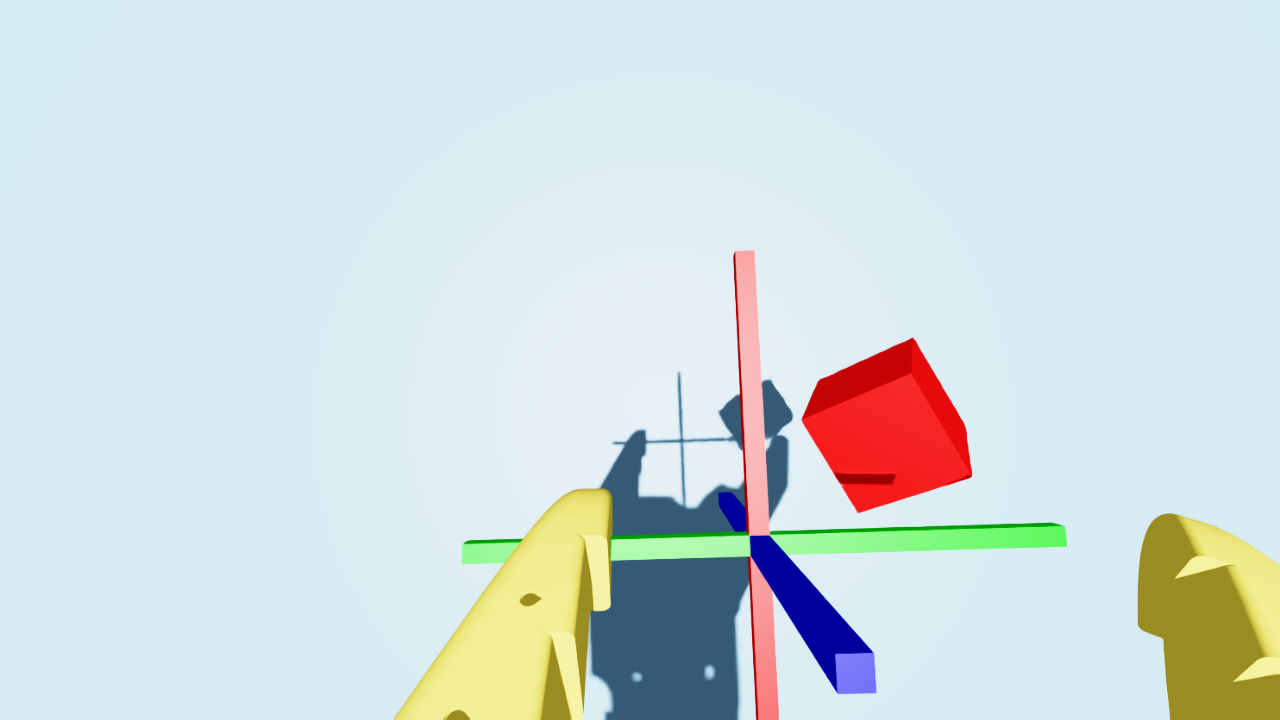
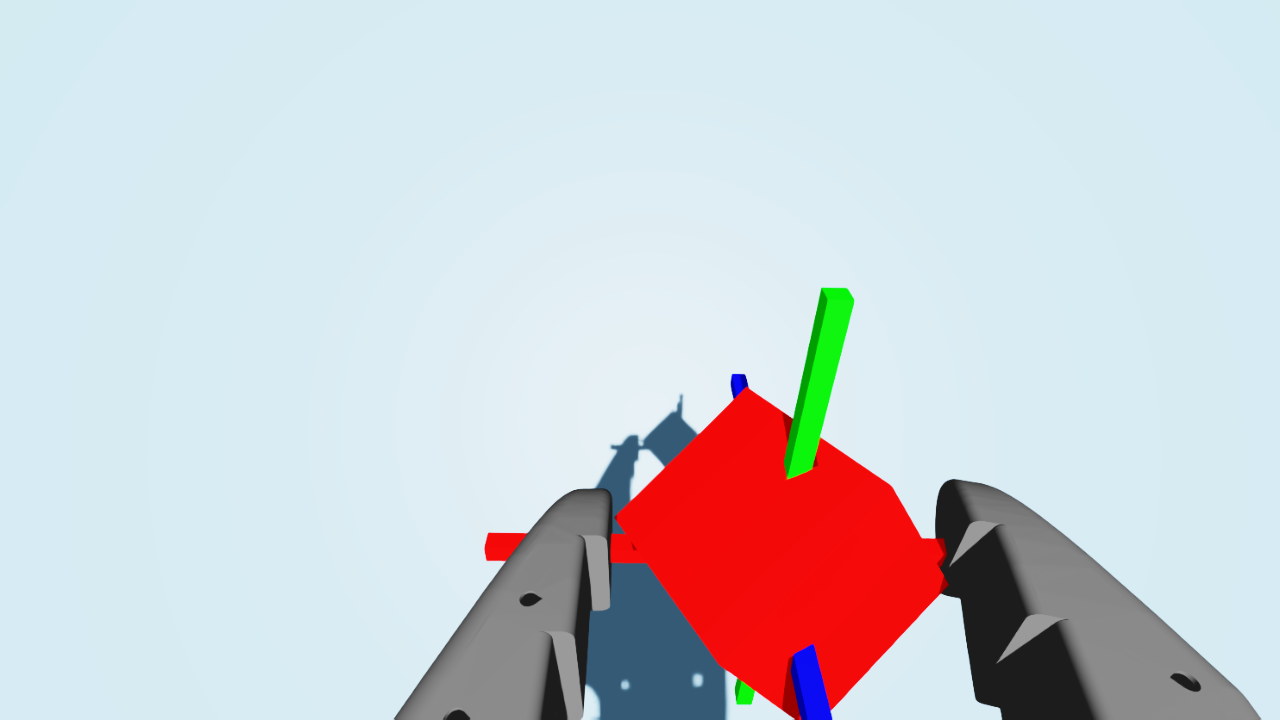
close

Changed region(s): [[0.3125, 0.3361, 1.0, 1.0]]

diff --git a/isaac_so_arm101-main/src/isaac_so_arm101/tasks/pick_place/pick_place_env_cfg.py b/isaac_so_arm101-main/src/isaac_so_arm101/tasks/pick_place/pick_place_env_cfg.py
@@ -171,14 +171,14 @@ class EventCfg:
             "placement_point": (0.048, 0.0),
             # Bowl: annular ring [0.20, 0.40] m from placement point, x ≥ 0.148, |y| ≤ 0.20.
             "bowl_dist_range": (0.20, 0.40),
-            "bowl_x_min": 0.0,
-            "bowl_y_max": 0.40,
+            "bowl_x_min": 0.148,
+            "bowl_y_max": 0.20,
             # Bowl radius: keep-out circle + occlusion-cone half-width (wider than physical 0.0775 to account for 3D camera perspective).
             "bowl_radius": 0.1,
             # Cube: annular ring [0.15, 0.30] m from placement point, x ≥ 0.148, |y| ≤ 0.20.
             "cube_dist_range": (0.15, 0.30),
-            "cube_x_min": -0.1,
-            "cube_y_max": 0.50,
+            "cube_x_min": 0.148,
+            "cube_y_max": 0.20,
             # Two-phase sampling: 100 random tries, then safety positions fallback.
             "safe_fallback_after": 100,
             "max_placement_tries": 200,
@@ -242,14 +242,14 @@ class EventCfg:
 
 @configclass
 class RewardsCfg:
-    reaching_object_coarse = RewTerm(
-        func=mdp.object_ee_distance,
-        params={"std": 0.15},
-        weight=0.1,
-    )
+    #reaching_object_coarse = RewTerm(
+    #    func=mdp.object_ee_distance,
+    #    params={"std": 0.15},
+    #    weight=0.1,
+    #)
     reaching_object_fine = RewTerm(
         func=mdp.object_ee_distance,
-        params={"std": 0.03},  # only rewards when within ~3cm — cube is 2cm
+        params={"std": 0.07},  # only rewards when within ~3cm — cube is 2cm
         weight=1.0,
     )
 
@@ -262,15 +262,15 @@ class RewardsCfg:
     #    },
     #    weight=5.0,
     #)
-    gripper_close_near_cube = RewTerm(
-        func=mdp.gripper_close_when_near,
-        params={
-            "proximity_std": 0.02,
-            "gripper_target": 0.2,
-            "asset_cfg": SceneEntityCfg("robot", joint_names=["gripper"]),
-        },
-        weight=5.0,
-    )
+    #gripper_close_near_cube = RewTerm(
+    #    func=mdp.gripper_close_when_near,
+    #    params={
+    #        "proximity_std": 0.02,
+    #        "gripper_target": 0.0,
+    #        "asset_cfg": SceneEntityCfg("robot", joint_names=["gripper"]),
+    #    },
+    #    weight=5.0,
+    #)
 
     #gripper_force_coarse = RewTerm(
     #    func=mdp.gripper_force_reward,
@@ -279,20 +279,20 @@ class RewardsCfg:
     #        "proximity_std": 0.05, "debug_print_interval": 0,
     #        "cube_sensor_cfg": SceneEntityCfg("contact_forces_cube"),
     #    },
-    #    weight=10.0,
+    #    weight=5.0,
     #)
-    gripper_force_fine = RewTerm(
-        func=mdp.gripper_force_reward,
-        params={
-            "target_force": 0.2,       # was 2.0 — realistic for 5g cube
-            "force_tolerance": 0.2,    # was 2.0
-            "force_max": 1.0,          # was 8.0
-            "proximity_std": 0.05,
-            "debug_print_interval": 0,
-            "cube_sensor_cfg": SceneEntityCfg("contact_forces_cube"),
-        },
-        weight=10.0,
-    )
+    #gripper_force_fine = RewTerm(
+    #    func=mdp.gripper_force_reward,
+    #    params={
+    #        "target_force": 0.2,       # was 2.0 — realistic for 5g cube
+    #        "force_tolerance": 0.2,    # was 2.0
+    #        "force_max": 1.0,          # was 8.0
+    #        "proximity_std": 0.05,
+    #        "debug_print_interval": 0,
+    #        "cube_sensor_cfg": SceneEntityCfg("contact_forces_cube"),
+    #    },
+    #    weight=10.0,
+#)
 
     object_grasped = RewTerm(
         func=mdp.object_grasped_contact_continuous,
@@ -301,68 +301,68 @@ class RewardsCfg:
             "force_balance_ratio": 3.0,
             "cube_sensor_cfg": SceneEntityCfg("contact_forces_cube"),
         },
-        weight=5.0,
+        weight=10.0,
     )
-    gripper_aperture = RewTerm(
-        func=mdp.gripper_aperture_reward,
-        params={
-            "std": 0.05,
-            "close_joint_pos": 0.0,
-            "target_open_pos": 0.3,
-            "object_cfg": SceneEntityCfg("object"),
-            "ee_frame_cfg": SceneEntityCfg("ee_frame"),
-            "robot_cfg": SceneEntityCfg("robot", joint_names=["gripper"]),
-        },
-        weight=0.01,
-    )
+    #gripper_aperture = RewTerm(
+    #    func=mdp.gripper_aperture_reward,
+    #    params={
+    #        "std": 0.1,
+    #        "close_joint_pos": 0.0,
+    #        "target_open_pos": 0.5,
+    #        "object_cfg": SceneEntityCfg("object"),
+    #        "ee_frame_cfg": SceneEntityCfg("ee_frame"),
+    #        "robot_cfg": SceneEntityCfg("robot", joint_names=["gripper"]),
+    #    },
+    #    weight=0.01,
+    #)
 
     lifting_object_coarse = RewTerm(
         func=mdp.lifting_object_grasped,
         params={
             "start_height": 0.01,
-            "saturation_height": 0.03,
+            "saturation_height": 0.04,
             "force_saturation": 0.5,       # was 5.0
             "force_balance_ratio": 3.0,
             "cube_sensor_cfg": SceneEntityCfg("contact_forces_cube"),
         },
-        weight=5.0,
+        weight=20.0,
     )
-    lifting_object_fine = RewTerm(
+    lifting_object = RewTerm(
         func=mdp.lifting_object_grasped,
         params={
-            "start_height": 0.025,
-            "saturation_height": 0.06,
+            "start_height": 0.03,
+            "saturation_height": 0.07,
             "force_saturation": 0.5,       # was 5.0
             "force_balance_ratio": 3.0,
             "cube_sensor_cfg": SceneEntityCfg("contact_forces_cube"),
         },
-        weight=5.0,
+        weight=10.0,
     )
     object_goal_tracking = RewTerm(
         func=mdp.object_bowl_distance,
         params={"std": 0.3, "minimal_height": 0.06, "height_offset": 0.1, "debug_vis": True},
-        weight=3.0,
+        weight=10.0,
     )
 
     object_goal_tracking_fine_grained = RewTerm(
         func=mdp.object_bowl_distance,
-        params={"std": 0.05, "minimal_height": 0.06, "height_offset": 0.1},
-        weight=2.0,
+        params={"std": 0.05, "minimal_height": 0.07, "height_offset": 0.1},
+        weight=5.0,
     )
     dropping_success = RewTerm(
         func=mdp.object_released_in_zone,
         params={"threshold": 0.05, "target_cfg": SceneEntityCfg("bowl_bottom")},
-        weight=20.0,
+        weight=100.0,
     )
-    cube_moved_before_grasp = RewTerm(
-        func=mdp.cube_moved_before_grasp_penalty,
-        params={
-            "height_threshold": 0.01,
-            "force_threshold": 0.05,
-            "cube_sensor_cfg": SceneEntityCfg("contact_forces_cube"),
-        },
-        weight=-1.0,
-    )
+    #cube_moved_before_grasp = RewTerm(
+    #    func=mdp.cube_moved_before_grasp_penalty,
+    #    params={
+    #        "height_threshold": 0.01,
+    #        "force_threshold": 0.05,
+    #        "cube_sensor_cfg": SceneEntityCfg("contact_forces_cube"),
+    #    },
+    #    weight=-1.0,
+    #)
     alive_penalty = RewTerm(func=mdp.is_alive, weight=-0.001)
     #robot_table_contact = RewTerm(
     #    func=mdp.robot_table_contact_penalty,
@@ -393,10 +393,10 @@ class RewardsCfg:
 @configclass
 class TerminationsCfg:
     time_out = DoneTerm(func=mdp.time_out, time_out=True)
-    object_dropping = DoneTerm(
-        func=mdp.root_height_below_minimum,
-        params={"minimum_height": -0.05, "asset_cfg": SceneEntityCfg("object")}
-    )
+    #object_dropping = DoneTerm(
+    #    func=mdp.root_height_below_minimum,
+    #    params={"minimum_height": -0.05, "asset_cfg": SceneEntityCfg("object")}
+    #)
     object_out_of_bounds = DoneTerm(
         func=mdp.root_height_below_minimum,
         params={"minimum_height": -0.5, "asset_cfg": SceneEntityCfg("object")}

diff --git a/isaac_so_arm101-main/src/isaac_so_arm101/tasks/pick_place/check_ee.py b/isaac_so_arm101-main/src/isaac_so_arm101/tasks/pick_place/check_ee.py
@@ -15,6 +15,12 @@ parser.add_argument(
     default=False,
     help="If set, cube tracks the EE. Otherwise spawns randomly on the floor with physics.",
 )
+parser.add_argument(
+    "--cube-rot",
+    type=float,
+    default=None,
+    help="Fixed Z rotation for the cube in degrees. If not set, randomized in floor mode.",
+)
 args_cli = parser.parse_args()
 app_launcher = AppLauncher({"headless": args_cli.headless, "enable_cameras": True})
 simulation_app = app_launcher.app
@@ -65,7 +71,7 @@ class DebugSceneCfg(InteractiveSceneCfg):
                     "elbow_flex":    -0.3,
                     "wrist_flex":    1.57,
                     "wrist_roll":    -1.57,
-                    "gripper":       0.5,
+                    "gripper":       0.2,
                 },
             )
         )
@@ -118,7 +124,7 @@ class DebugSceneCfg(InteractiveSceneCfg):
                 FrameTransformerCfg.FrameCfg(
                     prim_path="{ENV_REGEX_NS}/Robot/gripper_frame_link",
                     name="end_effector",
-                    offset=OffsetCfg(pos=[-0.01, 0.0, 0.0]),
+                    offset=OffsetCfg(pos=[-0.018, 0.0, 0.0]),
                 ),
             ]
         )
@@ -159,11 +165,13 @@ def z_rot_quat(angle_rad: float, device="cuda:0"):
     ], device=device)
 
 def set_object_kinematic(scene, kinematic: bool):
+    from pxr import UsdPhysics, PhysxSchema
     stage = omni.usd.get_context().get_stage()
     prim = stage.GetPrimAtPath("/World/envs/env_0/Object")
     body = UsdPhysics.RigidBodyAPI(prim)
     body.GetKinematicEnabledAttr().Set(kinematic)
-    body.GetDisableGravityAttr().Set(kinematic)
+    physx_body = PhysxSchema.PhysxRigidBodyAPI(prim)
+    physx_body.GetDisableGravityAttr().Set(kinematic)
 
 def run_check(ee_alignment_mode: bool, cube_rot_deg: float | None):
     try:

diff --git a/isaac_so_arm101-main/src/isaac_so_arm101/tasks/pick_place/joint_pos_env_cfg.py b/isaac_so_arm101-main/src/isaac_so_arm101/tasks/pick_place/joint_pos_env_cfg.py
@@ -50,7 +50,7 @@ class SoArm101PickPlaceCubeEnvCfg(PickPlaceEnvCfg):
                     "elbow_flex":    -0.3,
                     "wrist_flex":    1.57,
                     "wrist_roll":    -1.57,
-                    "gripper":       0.3,
+                    "gripper":       0.5,
                 },
                 joint_vel={".*": 0.0},
             ),
@@ -110,8 +110,8 @@ class SoArm101PickPlaceCubeEnvCfg(PickPlaceEnvCfg):
                 rigid_props=RigidBodyPropertiesCfg(
                     solver_position_iteration_count=16,
                     solver_velocity_iteration_count=4,
-                    max_angular_velocity=100.0,
-                    max_linear_velocity=10.0,
+                    max_angular_velocity=1000.0,
+                    max_linear_velocity=1000.0,
                     max_depenetration_velocity=1.0,
                     disable_gravity=False,
                 ),
@@ -153,7 +153,7 @@ class SoArm101PickPlaceCubeEnvCfg(PickPlaceEnvCfg):
                 FrameTransformerCfg.FrameCfg(
                     prim_path="{ENV_REGEX_NS}/Robot/gripper_frame_link",
                     name="end_effector",
-                    offset=OffsetCfg(pos=[-0.015, 0.0, 0.0]),
+                    offset=OffsetCfg(pos=[-0.017, 0.0, 0.0]),
                 ),
             ]
         )

diff --git a/isaac_so_arm101-main/src/isaac_so_arm101/tasks/pick_place/mdp/events.py b/isaac_so_arm101-main/src/isaac_so_arm101/tasks/pick_place/mdp/events.py
@@ -261,6 +261,10 @@ def reset_bowl_and_cube(
     obj_state[:, 7:] = 0.0
     obj.write_root_pose_to_sim(obj_state[:, :7], env_ids=env_ids)
     obj.write_root_velocity_to_sim(obj_state[:, 7:], env_ids=env_ids)
+    if not hasattr(env, "_initial_cube_pos_w"):
+        env._initial_cube_pos_w = torch.zeros(env.num_envs, 3, device=env.device)
+    env._initial_cube_pos_w[env_ids] = obj_state[:, :3].clone()
+
 
     _set_object_color(env, env_ids, object_cfg)
 

diff --git a/isaac_so_arm101-main/src/isaac_so_arm101/tasks/pick_place/agents/rsl_rl_ppo_state_cfg.py b/isaac_so_arm101-main/src/isaac_so_arm101/tasks/pick_place/agents/rsl_rl_ppo_state_cfg.py
@@ -23,8 +23,8 @@ class PickPlaceStatePPORunnerCfg(RslRlOnPolicyRunnerCfg):
 
     policy = RslRlPpoActorCriticCfg(
         init_noise_std     = 1.0,
-        actor_hidden_dims  = [512, 256, 128],
-        critic_hidden_dims = [512, 256, 128],
+        actor_hidden_dims  = [256, 128, 64],
+        critic_hidden_dims = [256, 128, 64],
         activation         = "elu",
     )
 
